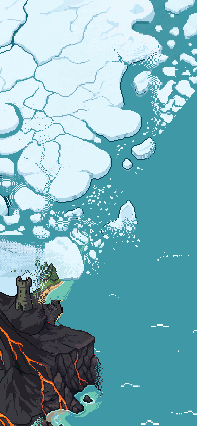
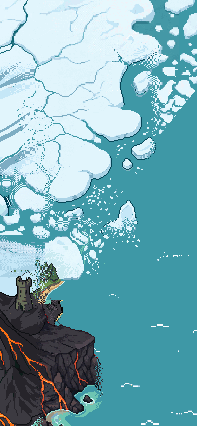
EPO03 east: E3 accepted - the pack-ice honeycomb becomes one banded floe; near-duplicate blocks in the NE fall from 34.8% to 26.4%

Changed region(s): [[0.0, 0.1526, 0.2132, 0.4272], [0.2437, 0.6408, 0.3655, 0.7019]]

diff --git a/GAME_BIBLE/ART/exploration/EPO03/ledger/WORLD_EAST.md b/GAME_BIBLE/ART/exploration/EPO03/ledger/WORLD_EAST.md
@@ -20,3 +20,9 @@ E1 (spread 14, palette from atlas 640–900 × 20–260, 13 entries) and a new
 colours, both tried before spending the cap again (PRODUCTION_RULES §2a).
 
 **Cap:** 140. Spent so far 75 (25 + 25 + 25). Accepted 1, rejected 2.
+| 7 | E3 roll 1 — the honeycomb, crop 600,20 200x200, inpaint atlas 640-760 x 60-180 (deliberately small); ask is one unbroken sheet with wind-drift bands and a few non-meeting cracks | `inpaint_image` | `5512cd2a-bcba-4745-90b4-1f2e785d3b2c` | 1006 | 20 | **ACCEPT** | the cell net in the middle of the pack becomes one broad banded floe with long non-meeting cracks; near-duplicate 10x10 blocks in 620-800 x 20-220 fall 34.8% -> 26.4%. Palette-remapped and de-stippled deterministically (`atlas-quantise`, `atlas-fleck --dither`, 0 gens). `review/atlas/E3_preview_fov_x2.png` |
+
+**Cap 140 — spent 135** (25 + 25 + 25 + 20 + 20 + 20). Accepted 3 regions
+(E1, E2, E3), rejected 3 rolls with written reasons. Two of the three accepted
+regions needed a deterministic recovery that cost nothing (`atlas-quantise`,
+`atlas-fleck`), and E2 shipped with no generation at all.
